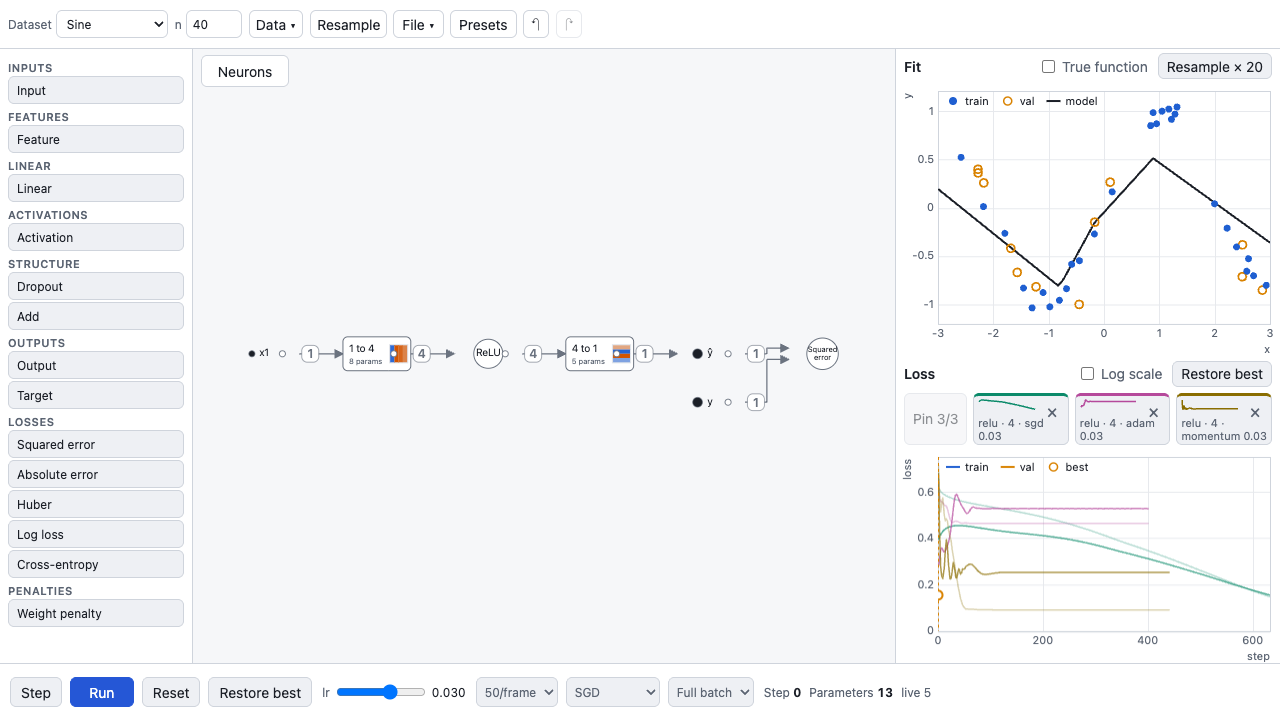
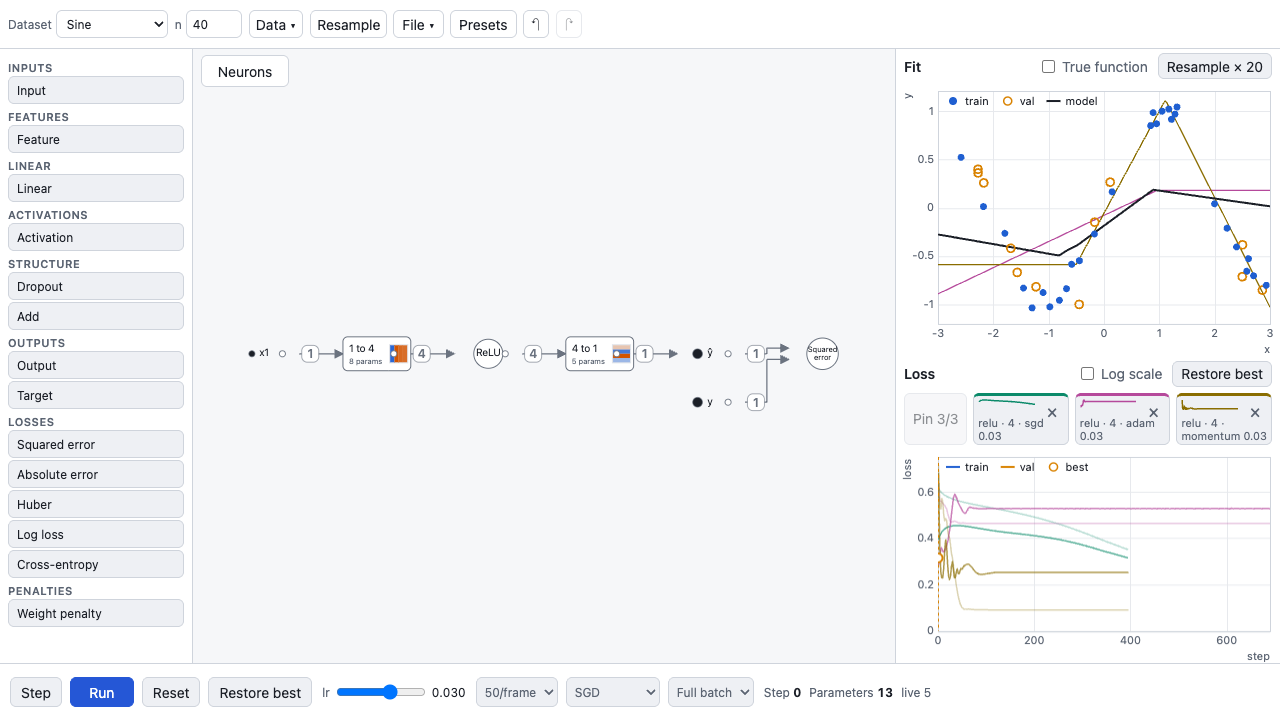
tinker-iej.2: pinned fit curves

diff --git a/packages/web/src/results/pinsModel.ts b/packages/web/src/results/pinsModel.ts
@@ -19,6 +19,8 @@ export type Pin = {
   /** The weights at the time of the pin: loading the pin restores the fit from them. */
   host: HostParams;
   history: PinPoint[];
+  /** The 1-D model curve at pin time (raw x and y on the fit plot's fixed grid), or null for 2-D data. */
+  fit: { x: Float32Array; y: Float32Array } | null;
   /** Last validation loss (or training loss when there is no validation set), for the chip. */
   finalLoss: number | null;
 };
@@ -85,6 +87,7 @@ export function makePin(
   host: HostParams,
   history: readonly HistoryPoint[],
   pins: readonly Pin[],
+  fit: Pin['fit'] = null,
 ): Pin | null {
   const slot = freeSlot(pins);
   if (slot === null || history.length === 0) return null;
@@ -105,8 +108,25 @@ export function makePin(
     graph,
     host,
     history: pts,
+    fit,
     finalLoss,
   };
+}
+
+/**
+ * The model curve on a 1-D grid for a pin: `predict(xStd, n)` is the store's `predictGrid` (output
+ * [n, width], first output used). Null when there is no prediction. Copies, so the pin owns its data.
+ */
+export function snapshotFit(
+  grid: { xRaw: Float32Array; xStd: Float32Array; n: number },
+  predict: (x: Float32Array, n: number) => Float32Array | null,
+): Pin['fit'] {
+  const out = predict(grid.xStd, grid.n);
+  if (!out) return null;
+  const width = Math.max(1, Math.round(out.length / grid.n));
+  const y = new Float32Array(grid.n);
+  for (let i = 0; i < y.length; i++) y[i] = out[i * width] ?? Number.NaN;
+  return { x: Float32Array.from(grid.xRaw), y };
 }
 
 export type LossBounds = { stepMax: number; lo: number; hi: number };

diff --git a/packages/web/src/results/FitPlot.tsx b/packages/web/src/results/FitPlot.tsx
@@ -30,6 +30,7 @@ function FitPlot1D() {
   const predictGrid = useStore((s) => s.predictGrid);
   const [showTruth, setShowTruth] = useState(false);
   const overlay = useOverlay1D();
+  const pins = useStore((s) => s.pins);
 
   // Per dataset: raw-unit points, the grid and the true function on it.
   const fixed = useMemo(() => {
@@ -107,6 +108,27 @@ function FitPlot1D() {
       line(fixed.f);
       ctx.setLineDash([]);
     }
+    // Pinned fits (tinker-iej.2) under the live curve, in the pin's colour.
+    for (const p of pins) {
+      if (!p.fit) continue;
+      ctx.strokeStyle = c.pins[p.slot] ?? c.accent;
+      ctx.lineWidth = 1.25;
+      ctx.lineJoin = 'round';
+      ctx.beginPath();
+      let started = false;
+      for (let i = 0; i < p.fit.y.length; i++) {
+        const v = p.fit.y[i];
+        if (v === undefined || !Number.isFinite(v)) {
+          started = false;
+          continue;
+        }
+        const px = xs.px(p.fit.x[i] ?? 0);
+        if (started) ctx.lineTo(px, ys.px(v));
+        else ctx.moveTo(px, ys.px(v));
+        started = true;
+      }
+      ctx.stroke();
+    }
     if (curve) {
       ctx.strokeStyle = c.text;
       ctx.lineWidth = 2;
@@ -138,7 +160,7 @@ function FitPlot1D() {
     ctx.restore();
   };
 
-  const ref = usePlotCanvas(draw, [dataset, fixed, curve, showTruth, overlay]);
+  const ref = usePlotCanvas(draw, [dataset, fixed, curve, showTruth, overlay, pins]);
   return (
     <div className={styles.panel} data-testid="fit-plot">
       <div className={styles.head}>

diff --git a/packages/web/src/results/Pins.tsx b/packages/web/src/results/Pins.tsx
@@ -1,6 +1,8 @@
+import { grid1d } from '@tinker/core';
 import { usePlotCanvas, type DrawFn } from '../plot/canvas.js';
 import { useStore } from '../state/store.js';
-import { PIN_LIMIT, makePin, type Pin } from './pinsModel.js';
+import { GRID_N } from './FitPlot.js';
+import { PIN_LIMIT, makePin, snapshotFit, type Pin } from './pinsModel.js';
 import styles from './Pins.module.css';
 
 /** A small picture of a pinned run's loss curve (validation when there is one, else training). */
@@ -52,7 +54,12 @@ export function Pins() {
   const pin = () => {
     const s = useStore.getState();
     if (!s.host) return;
-    const p = makePin(s.graph, s.host, s.history, s.pins);
+    const d = s.dataset;
+    const fit =
+      d.info.columns.length === 1
+        ? snapshotFit(grid1d(d.domain, GRID_N, d.standardization), s.predictGrid)
+        : null;
+    const p = makePin(s.graph, s.host, s.history, s.pins, fit);
     if (p) addPin(p);
   };
   const load = (p: Pin) => {

diff --git a/packages/web/test/pins.test.tsx b/packages/web/test/pins.test.tsx
@@ -69,6 +69,18 @@ test('a fourth pin is refused: the button is disabled', () => {
   expect(s().pins.length).toBe(PIN_LIMIT);
 });
 
+test('a 1-D pin stores a copy of the model curve on the fixed grid', () => {
+  runSome();
+  click(q('pin-add')[0]);
+  const fit = s().pins[0]?.fit;
+  expect(fit?.x.length).toBe(200);
+  expect(fit?.y.length).toBe(200);
+  expect(Array.from(fit?.y ?? []).every(Number.isFinite)).toBe(true);
+  const y0 = fit?.y[100];
+  act(() => s().stepOnce());
+  expect(s().pins[0]?.fit?.y[100]).toBe(y0);
+});
+
 test('the x removes a pin and frees its slot', () => {
   runSome();
   click(q('pin-add')[0]);

diff --git a/CONTRACTS.md b/CONTRACTS.md
@@ -377,7 +377,7 @@ Choices fixed by `layout.ts` (constants in the exported `LAYOUT`; all in abstrac
 - Building gestures (tinker-27m.4, `canvas/dnd.ts`, `canvas/actions.ts`, `palette/Palette.tsx`): a gesture in progress lives in a small external store `dnd` (not a slice): `begin/move/end/cancel`, and the canvas registers `setHandler({ resolve, commit })` while mounted. `resolveDrop(payload, graph, layout, widths, scale, point, hitPx)` (`hitPx` 20 mouse, 32 touch) and `editForDrop(graph, payload, target, opts?)` (`opts.locked`, from `lockedIds()` in `state/locks.ts`, which every web edit call site passes) are pure. Drop targets use `layerHitShapes` (a wire's label first, the wire line within 10 px (mouse) or 16 px (touch) as fallback; pieces before wire lines). `layerHitShapes` takes an optional `outputs` set and then adds a `{ kind: 'port', node }` shape (32 px square, centred `PORT_INSET` units inside the right edge of the piece so it stays clear of the label), painted between pieces and labels; `data-testid` `port-out-<id>` is the handle to drag a wire from. A drop applies the edit through `graphSlice.apply` and selects `result.select`; a refused edit shows its sentence in `<Toast/>` (`data-testid="toast"`, reads `graphSlice.error`). An edit during a run is applied as usual and the train slice recompiles and pauses on a structural change. On touch the palette scrolls vertically (`touch-action: pan-y`) and a drag begins on mostly horizontal movement. Delete/Backspace and the inspector `inspector-delete` button call `deleteSelection()`; Ctrl/Cmd+Z, Shift+Ctrl/Cmd+Z and `btn-undo`/`btn-redo` in the top bar.
 - Neuron view (tinker-ran.1, `canvas/NeuronView.tsx`, `canvas/neuronPure.ts`): `viewSlice.grain: 'layer' | 'neuron'` with `setGrain` (clears an edge or unit selection, never touches the graph); `grain-toggle` is a pressed-state button ("Neurons", `aria-pressed`, at least 32 px) in a 44 px header strip at the top of the canvas region (`Canvas.tsx` `HEADER_H`: the drawing is fitted below it, so it never covers a piece or wire); it is not in the top bar. A store subscription clears an edge or unit selection as soon as a graph or data change makes it stop fitting (`neuronSelectionLive` in `canvas/pure.ts`), so undo or regrowing a layer cannot resurrect it. `HostParams` has no shapes, so the store remembers the graph each `host` snapshot was published with (`state/hostShape.ts`) and `weightAt` refuses a weight whose [in, out] differs from the shape the snapshot was built for. `Selection` gains `{ kind: 'edge'; node; i; j }` (weight `W[i][j]` of a Linear, key into `NeuronLayout.edges` and `HostParams` index `i*out+j`) and `{ kind: 'unit'; node; index }` (a circle of a unit column, `index` as in `NeuronLayout.units`); `useSelection(analysis)` drops an edge that no longer fits the widths. The canvas passes `{ nodes: boxes, wires, size }` of the neuron layout wherever a `LayerLayout` is expected (drops, callouts, inspector anchor). Edge lines are painted imperatively from `host` (no React render per frame; `useWeights(analysis, false)` does not follow `host`, `useInitialWeights` gives step 0). Hit-testing: a press on an edge picks the edge whose line is nearest (`nearestEdge`, within half the 20/32 px hit width), units win over edges (`neuronHitShapes`: a unit's cell is the full column pitch tall and at least 32 px wide, so cells tile at any scale), then pieces. Mouse hover over an edge shows its value (`edge-tip`); tap selects it and the inspector shows it (`inspector-weight`, `inspector-bias`). `data-testid`: `neuron-view`, `edge-<node>-<i>-<j>` (its `.tk-edge-line` carries `data-sign` `pos|neg|none` and `stroke-width`), `unit-<node>-<index>`, `edges-<node>` (the "N edges" label of a collapsed Linear), `edge-selected`, `edge-tip`. Delete does nothing for an edge or unit selection; ran.2 adds unit removal. Palette drops work on boxes in neuron view; wire dragging from output ports is layer view only.
 - `data-testid` on: every palette entry (`palette-<key>`), every node (`node-<id>`), every wire (`wire-<index>`) and its label (`wire-label-<index>`), `btn-step`, `btn-run`, `btn-reset`, `step-count`, `param-count`, `status-diverged`, `fit-plot`, `loss-curves`, `grain-toggle`.
-- Pinned runs (tinker-iej.2, `results/Pins.tsx`, `results/pinsModel.ts`): `viewSlice.pins: Pin[]` (oldest first) with `addPin` (refused, returns false, at `PIN_LIMIT` = 3: the Pin button is disabled rather than replacing the oldest) and `removePin`. A `Pin` is plain data: `{ id, slot, label, graph, host, history, finalLoss }`; `history` is decimated to at most `PIN_POINTS` = 200 points (`decimateHistory`: last point of each run, last non-null validation value of the run) and has no batch series; `label` is "activations · hidden widths · optimizer lr". The pin's `host` is the weights at pin time, so its fit is restored from them (fit-curve samples are not stored). Pins live outside the graph and its history: they survive edits, undo/redo, dataset changes and file loads (a pin from other data is still a loss curve to compare, but its numbers are on that data). Clicking a chip does `apply({ ok: true, graph })` (one undo step) then `loadHost(host)`, which starts a new run (history cleared; Pin is disabled until a step is taken). The loss curves draw each pin's train (alpha 0.3) and val (alpha 0.7) in `--pin-1..3` (`PlotColors.pins`) under the current curves and widen the axes to include them. `data-testid`: `pins`, `pin-add`, `pin-chip`, `pin-load`, `pin-remove`.
+- Pinned runs (tinker-iej.2, `results/Pins.tsx`, `results/pinsModel.ts`): `viewSlice.pins: Pin[]` (oldest first) with `addPin` (refused, returns false, at `PIN_LIMIT` = 3: the Pin button is disabled rather than replacing the oldest) and `removePin`. A `Pin` is plain data: `{ id, slot, label, graph, host, history, finalLoss }`; `history` is decimated to at most `PIN_POINTS` = 200 points (`decimateHistory`: last point of each run, last non-null validation value of the run) and has no batch series; `label` is "activations · hidden widths · optimizer lr". The pin's `host` is the weights at pin time, so its fit is restored from them. For 1-D data the pin also stores `fit: { x, y }` (two plain Float32Arrays of the fixed 200-point grid, raw x, from `snapshotFit` / `predictGrid`; null for 2-D data, where nothing is overlaid) and `FitPlot` draws it thin under the live curve in the pin colour. A pin taken on another dataset is still drawn (in its own raw x, clipped to the plot's domain). Pins live outside the graph and its history: they survive edits, undo/redo, dataset changes and file loads (a pin from other data is still a loss curve to compare, but its numbers are on that data). Clicking a chip does `apply({ ok: true, graph })` (one undo step) then `loadHost(host)`, which starts a new run (history cleared; Pin is disabled until a step is taken). The loss curves draw each pin's train (alpha 0.3) and val (alpha 0.7) in `--pin-1..3` (`PlotColors.pins`) under the current curves and widen the axes to include them. `data-testid`: `pins`, `pin-add`, `pin-chip`, `pin-load`, `pin-remove`.
 
 ## 11. PyTorch reference fixtures
 
